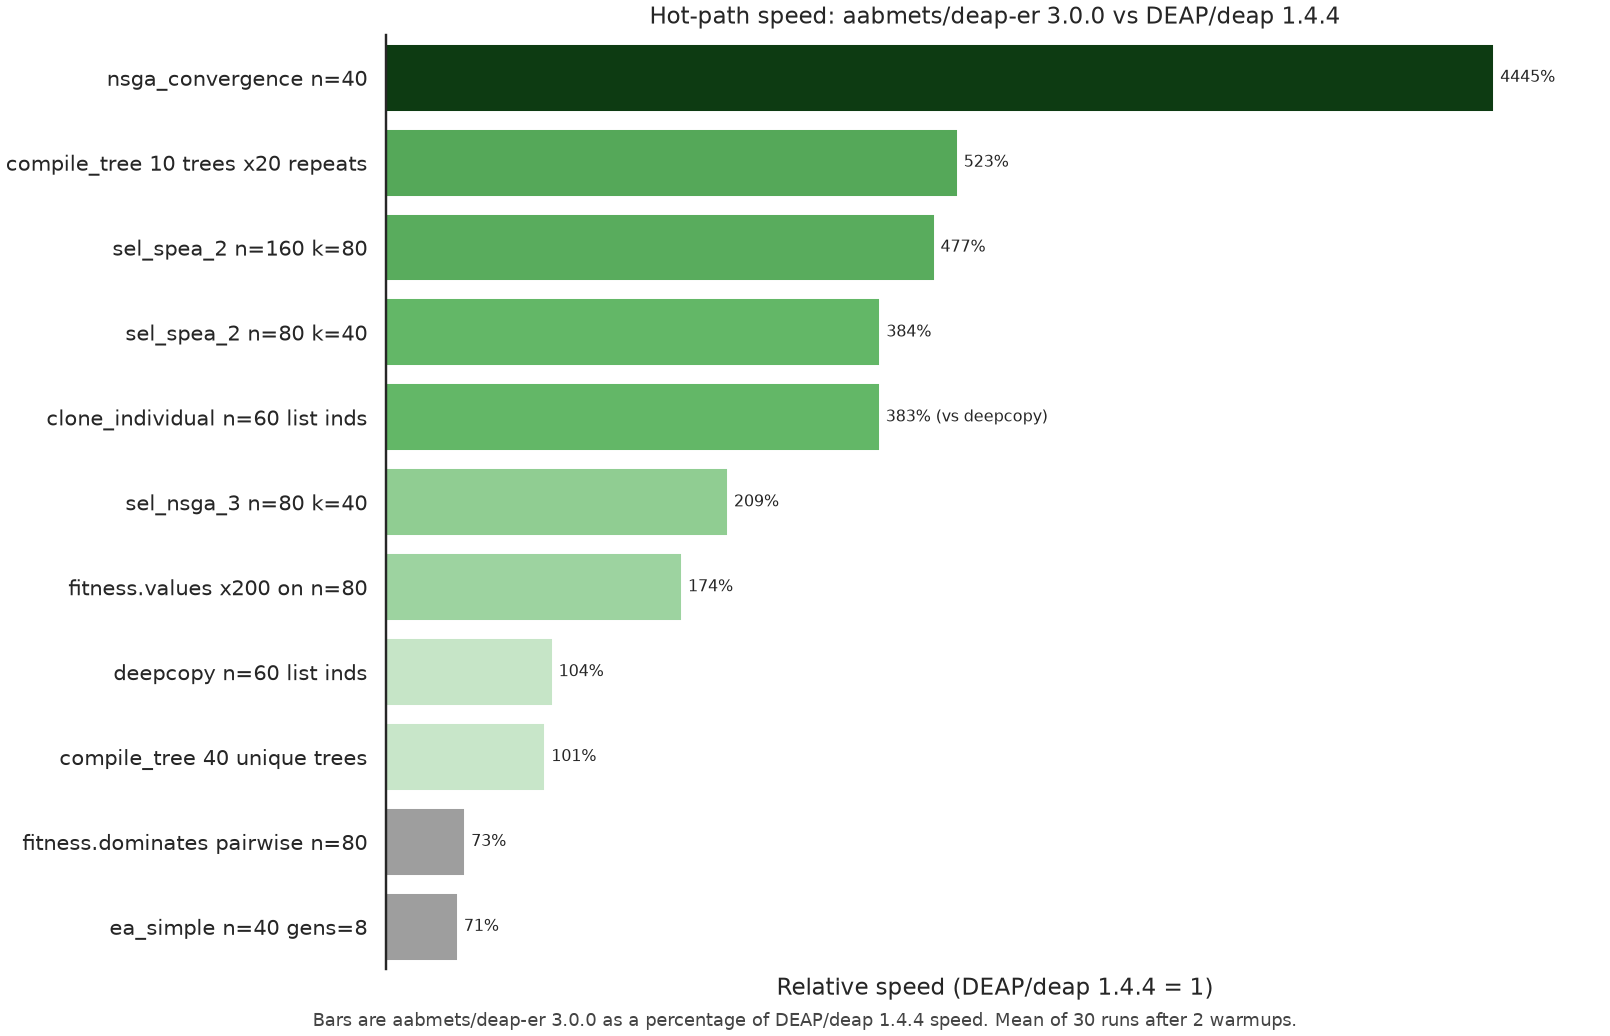
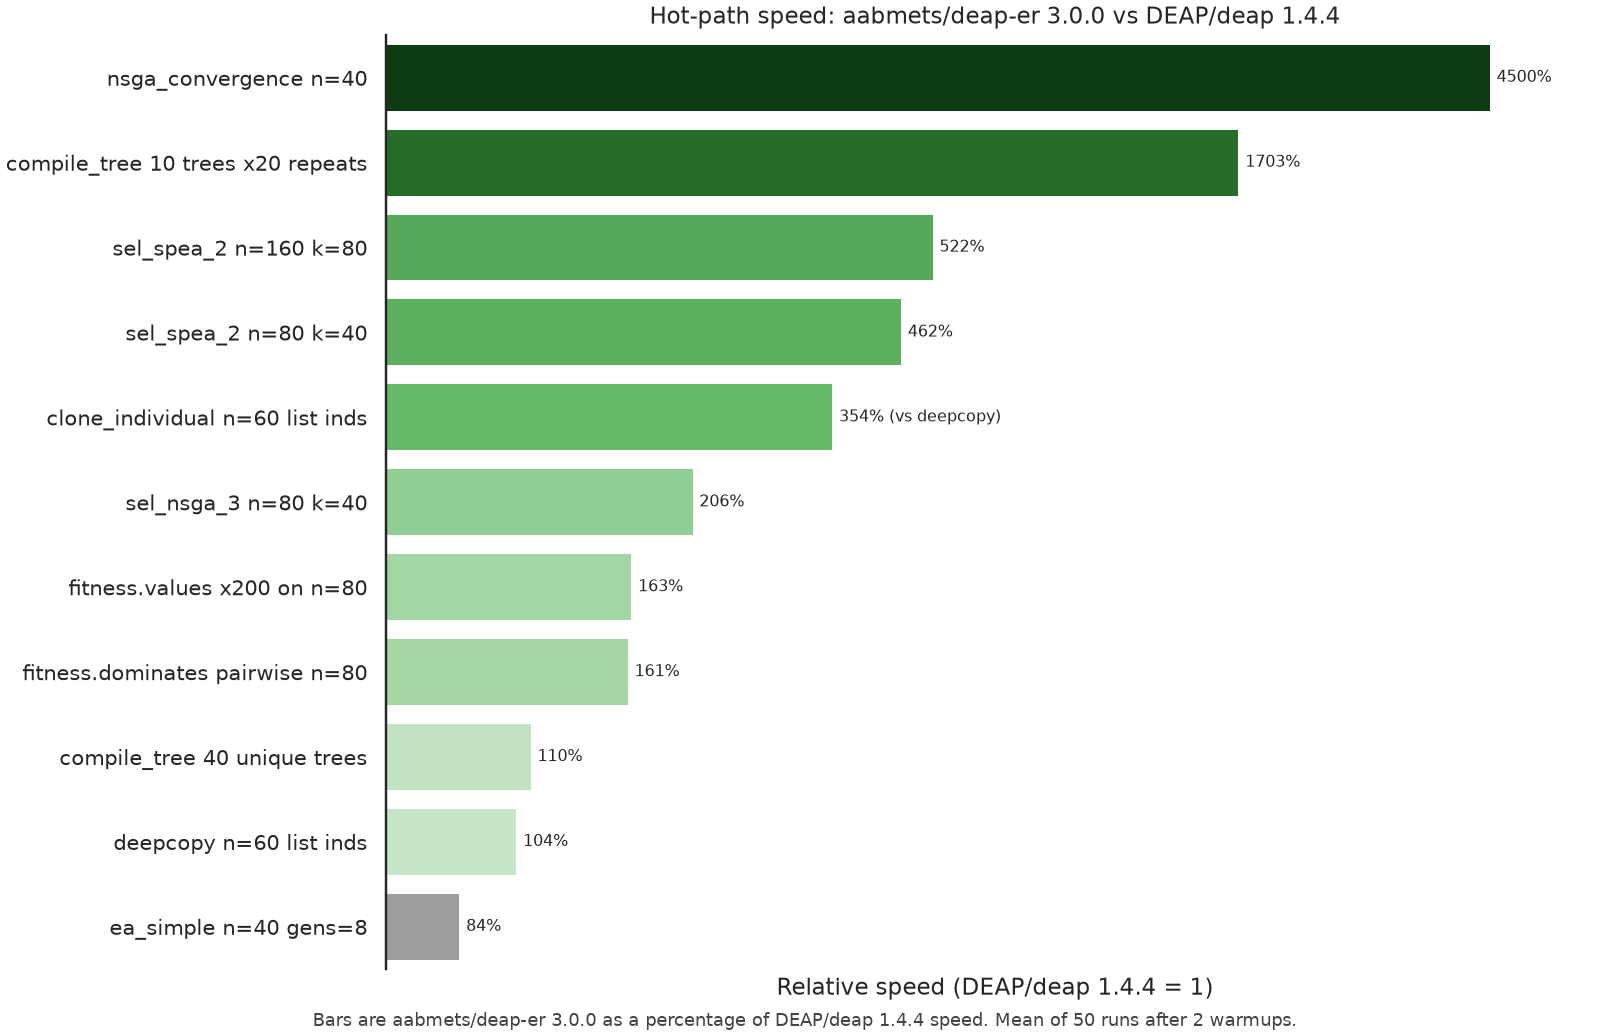
Refresh the performance page from the latest hot-path bench.
dominates is no longer a loss; ea_simple remains slower because tournament draws go through the NumPy RNG facade instead of CPython random.

diff --git a/docs/overview/performance.md b/docs/overview/performance.md
@@ -1,15 +1,32 @@
 # Performance
 
-deap-er is a rewrite, not a drop-in rename, but the same genomes can
-be timed on both libraries. The chart below is **relative speed**:
-DEAP/deap is the unit baseline (100%). A longer bar means deap-er
-finished the same work in less wall time.
+deap-er is a rewrite, not a drop-in rename, but the same genomes and
+GP expressions can be timed on both libraries. The chart below is
+**relative speed**: DEAP/deap is the unit baseline (100%). A longer
+bar means deap-er finished the same work in less wall time.
 
 ![Hot-path speed of aabmets/deap-er 3.0.0 relative to DEAP/deap 1.4.4](../images/hotpath-speedups.png)
 
-Each bar is the mean of 30 timed runs after 2 warmups. Versions in
+Each bar is the mean of 50 timed runs after 2 warmups. Versions in
 the title are the packages that produced the JSON, not whatever is
 installed when the figure is redrawn.
+
+| Case | Relative speed |
+|:-----|---------------:|
+| `nsga_convergence` n=40 | 45× |
+| `compile_tree` 10 trees ×20 repeats | 17× |
+| `sel_spea_2` n=160 k=80 | 5.2× |
+| `sel_spea_2` n=80 k=40 | 4.6× |
+| `clone_individual` n=60 | 3.5× |
+| `sel_nsga_3` n=80 k=40 | 2.1× |
+| `fitness.values` ×200 on n=80 | 1.6× |
+| `fitness.dominates` pairwise n=80 | 1.6× |
+| `compile_tree` 40 unique trees | 1.1× |
+| `deepcopy` n=60 | 1.0× |
+| `ea_simple` n=40 gens=8 | 0.84× |
+
+Green is darker as the speedup grows past 100%. The gray bar is
+below the DEAP baseline.
 
 ## What is faster
 
@@ -23,9 +40,10 @@ in Python loops:
   are vectorized. SPEA-II density rows stay the original
   upper-triangle layout so the RNG stream is unchanged.
 - **`compile_tree` repeats** — the default `eval` backend is cached
-  by expression text and context identity. The first compile of
-  unique trees is about even with DEAP; repeating the same ten trees
-  is several times faster.
+  by expression text and context identity. Both libraries compile
+  the same shared source strings. The first compile of 40 unique
+  trees is slightly ahead of DEAP; repeating the same ten trees is
+  about 17× faster.
 - **`clone_individual`** — a shallow copy of a `list` / `array.array`
   individual plus a deepcopy of fitness. The default
   `Toolbox.clone` is still `deepcopy` (the near-parity bar). Register
@@ -33,26 +51,31 @@ in Python loops:
   only fitness. See [Important differences](differences.md).
 - **`fitness.values` reads** — the tuple is cached after the first
   assignment.
-
-Green is darker as the speedup grows past 100%. Gray bars are below
-the DEAP baseline.
+- **`fitness.dominates`** — one-, two-, and three-objective cases
+  unpack `wvalues` and compare directly. Other arities use an
+  indexed loop.
 
 ## What is slower
 
-Two cases on this machine sit under 100%:
+One case on this machine sits under 100%:
 
-- **`fitness.dominates`** — the comparison is now a single zip of
-  `wvalues`, but DEAP still wins the microbenchmark.
-- **`ea_simple`** — the generational loop is dominated by tournament
-  selection. deap-er's process-wide RNG is a NumPy facade; CPython
-  `random` is cheaper per `choice` / `randint`. The stream is kept
-  for golden tests, so the bench does not rewrite tournament to a
-  faster sampler.
+- **`ea_simple`** — about 0.84× DEAP (2.11 ms vs 1.76 ms on n=40,
+  8 generations). The generational loop is almost entirely
+  tournament selection. Each round calls `sel_random`, and each
+  pick is a scalar `rng.choice`. Crossover and flip-bit mutation
+  add more scalar `random` draws. DEAP uses CPython's `random`
+  module for those. deap-er's process-wide RNG is a NumPy
+  `Generator` facade (buffered uniforms and scalar integers) so
+  one stream can be seeded, checkpointed, and matched by golden
+  tests. A NumPy-backed draw is still more expensive than CPython
+  `random`, so a tiny OneMax-style loop that spends its time in
+  `choice` / `random` loses. The bench does not rewrite tournament
+  to a batched sampler, because that would change the RNG stream.
 
-Those two do not cancel the selection and metric wins. A run that
-spends its time in SPEA-II, NSGA-III, or repeated GP compile will
-see the chart's upper bars. A tiny OneMax loop that is almost
-entirely tournament draws will look more like `ea_simple`.
+That one case does not cancel the selection, clone, and compile
+wins. A run that spends its time in SPEA-II, NSGA-III, or repeated
+GP compile will see the chart's upper bars. A tiny OneMax loop that
+is almost entirely tournament draws will look like `ea_simple`.
 
 ## How to reproduce
 
@@ -64,5 +87,6 @@ uv run python tools/plot_hotpath_speedups.py -o docs/images/hotpath-speedups.png
 ```
 
 The bench writes `reports/hotpath-bench.json` (gitignored). Both
-libraries receive the same numeric genomes. First-time compile skips
-warmup and clears deap-er's compile cache on every sample.
+libraries receive the same numeric genomes and the same GP
+expression strings. First-time compile skips warmup and clears
+deap-er's compile cache on every sample.
